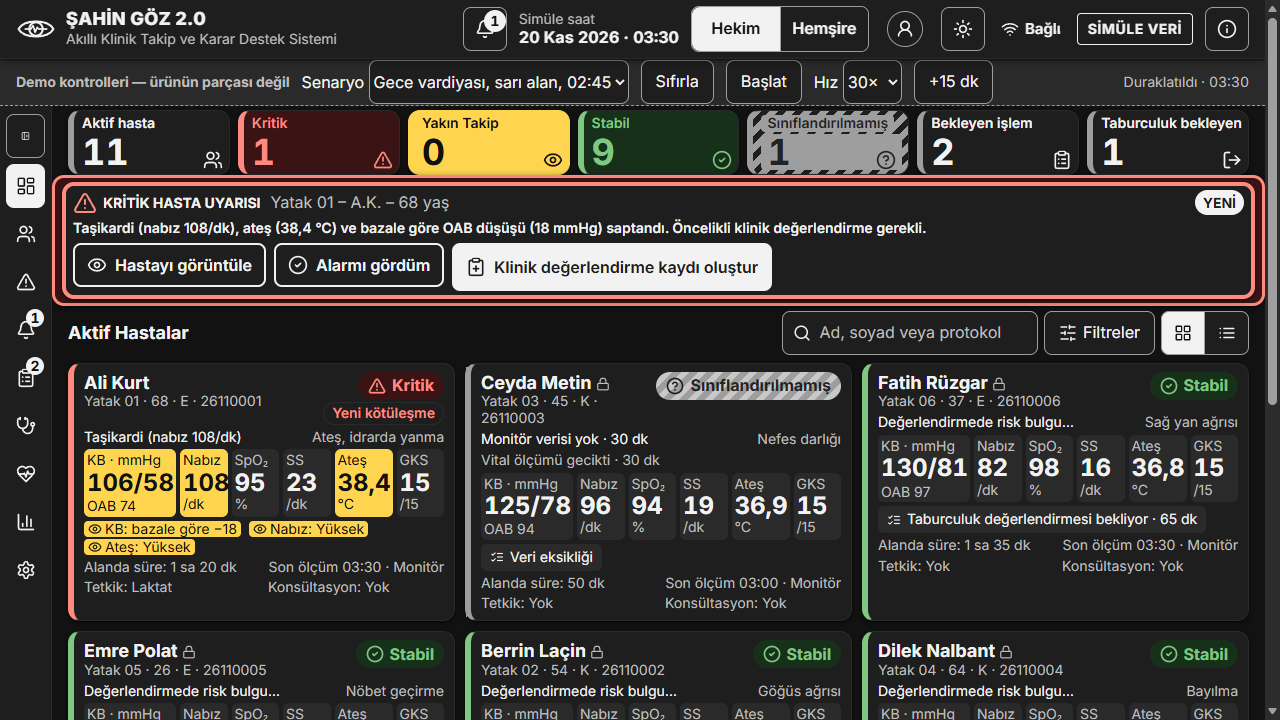
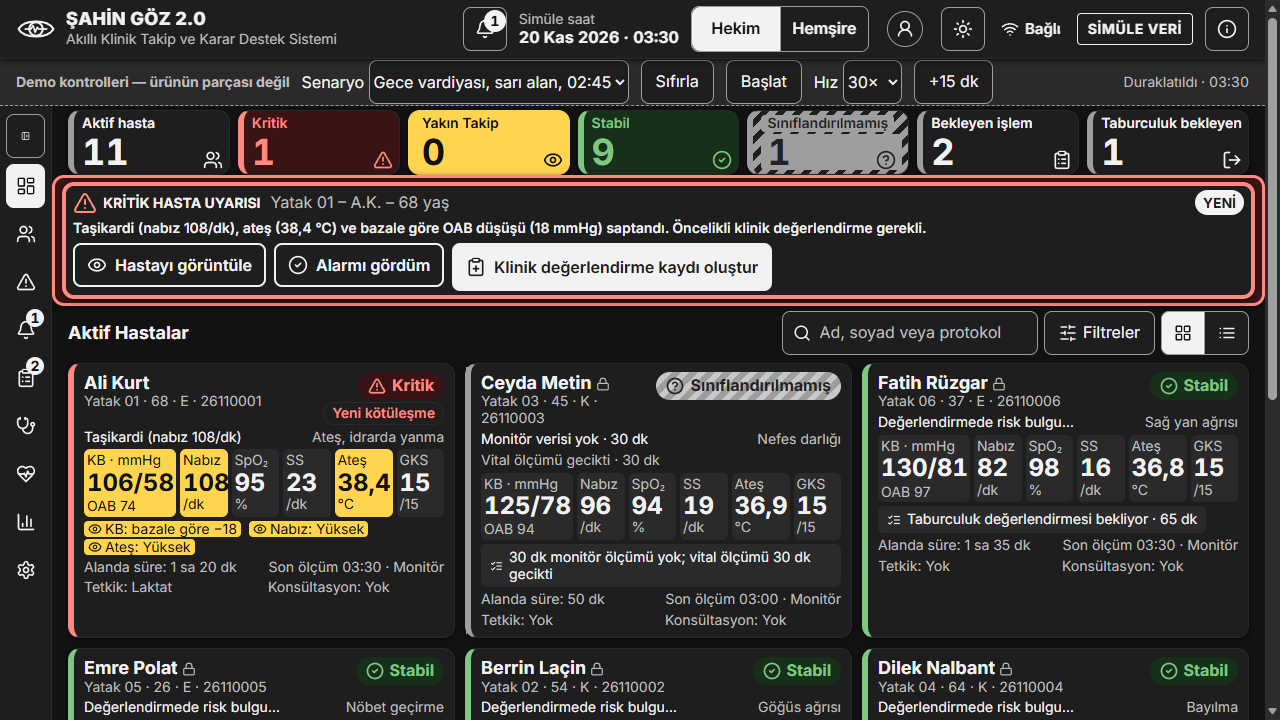
fix(gui): preserve compact table density after review

Changed region(s): [[0.0312, 0.7639, 0.9688, 1.0]]

diff --git a/frontend/src/gui/patients/PatientTable.tsx b/frontend/src/gui/patients/PatientTable.tsx
@@ -1,4 +1,4 @@
-import { Eye, Lock, TriangleAlert } from 'lucide-react';
+import { Eye, ListChecks, Lock, TriangleAlert } from 'lucide-react';
 import { StatusLabel } from '../../components/ui/StatusLabel';
 import type { Alert, CriticalAlarm, Summary } from '../../types';
 import { copy as alarmCopy } from '../alarms/copy';
@@ -30,6 +30,8 @@ export function PatientTable({ patients, activeAlarms, tasks, blockingPatientId,
           ? [`${alarmCopy.previousFindings}: ${reasons.join(' · ')}`, ...dataIssues]
           : [...new Set([...reasons, ...dataIssues])];
         const activeTasks = tasks.filter(a => a.patient_id === patient.id && a.status === 'active');
+        const gapTask = activeTasks.find(task => task.level === 'YELLOW');
+        const briefIssue = dataIssues[0] ?? (patient.risk_status.key === 'siniflandirilmamis' ? issues[0] : undefined);
         return <tr key={patient.id} data-testid={`board-row-${patient.id}`} data-status={patient.risk_status.key}
           data-locked={locked || undefined} onClick={() => onOpen(patient.id)}>
           <th scope="row"><button type="button" className="table-patient" onClick={event => { event.stopPropagation(); onOpen(patient.id); }}>
@@ -40,11 +42,13 @@ export function PatientTable({ patients, activeAlarms, tasks, blockingPatientId,
           <td className="table-risk" title={[...issues, ...activeTasks.map(alertTitle)].join(' · ')}>
             <StatusLabel status={patient.risk_status.key} sublabel={statusSublabel(patient, !!alarm)} />
             {patient.risk_status.worsened && <span className="badge-worsened">{copy.worsened}</span>}
-            {patient.risk_status.key === 'siniflandirilmamis' && issues[0] && <small className="table-issue">{issues[0]}</small>}
-            {patient.risk_status.key !== 'siniflandirilmamis' && dataIssues[0] && !activeTasks.some(task => task.level === 'YELLOW') &&
-              <small className="table-issue">{dataIssues[0]}</small>}
-            {activeTasks.map(task => <small key={task.id} className="table-issue">
-              {task.level === 'GREEN' ? alarmCopy.tasks.title('GREEN') : alertTitle(task)}
+            {alarm?.criteria_met === false && <small className="table-issue">{alarmCopy.previousFindings}</small>}
+            {gapTask ? <small className="table-issue table-task" title={alertTitle(gapTask)}>
+              <ListChecks size={14} aria-label={alarmCopy.tasks.title('YELLOW')} />
+              {briefIssue ?? alertTitle(gapTask)}
+            </small> : briefIssue && <small className="table-issue">{briefIssue}</small>}
+            {activeTasks.filter(task => task.level === 'GREEN').map(task => <small key={task.id} className="table-issue table-task">
+              <ListChecks size={14} aria-hidden="true" />{alarmCopy.tasks.title('GREEN')}
             </small>)}
           </td>
           <td>{offline ? <span className="table-gap">{copy.stale}</span> : patient.score}</td>

diff --git a/frontend/src/gui/patients/patients.css b/frontend/src/gui/patients/patients.css
@@ -437,7 +437,7 @@
 .patient-table { width: 100%; min-width: 850px; border-collapse: collapse; font-size: .875rem; line-height: 1.13; background: var(--surface); }
 .patient-table th, .patient-table td { padding: 2px 5px; text-align: start; vertical-align: middle; border-bottom: 1px solid var(--line); }
 .patient-table tbody th { padding-block: 0; }
-.patient-table thead th { height: 30px; background: var(--subtle); }
+.patient-table thead th { height: 24px; background: var(--subtle); white-space: nowrap; }
 .patient-table tbody tr { cursor: pointer; }
 .patient-table tbody tr:hover { background: var(--subtle); }
 .patient-table tbody th { border-inline-start: 5px solid var(--line-strong); }
@@ -455,6 +455,8 @@
 .table-risk .status-label { gap: .25rem; }
 .table-risk .status-pill { padding: .125rem .25rem; }
 .table-risk .badge-worsened, .table-vital > small, .table-issue { display: block; }
+.table-issue.table-task { display: flex; align-items: center; gap: .25rem; }
+.table-task svg { flex: none; }
 .table-vital { font-variant-numeric: tabular-nums; }
 .table-value { font-size: 1rem; font-weight: 680; white-space: nowrap; }
 .table-vital[data-flag='kritik'] { background: var(--kritik-bg); color: var(--kritik); }
@@ -467,7 +469,6 @@
 .card-flags span { display: flex; align-items: center; gap: 3px; }
 .card-flags .flag-kritik { color: var(--kritik); }
 .card-flags .flag-yakin_takip { padding-inline: .25rem; color: var(--status-on-yellow); background: var(--yakin-takip); border-radius: .25rem; }
-.patient-table thead th { height: 24px; }
 .table-gap small { display: block; }
 .table-vital { min-width: 60px; }
 .table-vital .table-gap { white-space: nowrap; }

diff --git a/docs/STATUS.md b/docs/STATUS.md
@@ -83,5 +83,8 @@
 - A separate Edge run dropped three consecutive state requests: the phone showed the last-success timestamp, all 54 visible measured values lost their normal style, mutations were disabled, and the connection recovered when requests resumed.
 - P2 started after P1 was published at 23:46 Istanbul time, before the 04:30 cutoff. Settings enables English only when both catalogs have matching nonempty messages and placeholder names. Turkish remains the default; the chosen language survives reload.
 - The shift summary counts actual audit records and labels them as simulation activity, not clinical performance. In two final replays Edge showed one seen record, one recorded critical evaluation, and one filtered lab. Both runs produced the same 10 audit entries except for wall-clock timestamps.
-- Final browser checks also covered a 48 px primary action and locked secondary alarm at 04:00, and English patient detail at 390×844 with localized staff/lab names and the disabled physician action. The final catalog check covered 568 keys and placeholder sets per language.
+- Final browser checks also covered a 48 px primary action and locked secondary alarm at 04:00, and English patient detail at 390×844 with localized staff/lab names and the disabled physician action.
 - Published on [`feat/gui-2`](https://github.com/OzgenOzan/pulse-hackers_emathon_26/tree/feat/gui-2) in [PR #3](https://github.com/OzgenOzan/pulse-hackers_emathon_26/pull/3); not merged.
+- Review fixes distinguish a latched alarm's earlier findings from its current score, keep a prior evaluation out of a newly active alarm’s status, and show the seen/decision timeline and note in patient detail. A departed patient remains visible in the history with its detail action disabled and explained. The clinical engine and server-side lock are unchanged.
+- Stale trend endpoints show the measurement time and the chart breaks at missing samples. Monitor-only gaps are distinct from overdue vitals, tablet navigation no longer covers the detail sheet, and one assertive critical alert region works on every route.
+- Failed startup resources reload independently. A timed-out mutation keeps actions disabled until reconciliation. Edge held a real successful seen response: the connection showed offline, then accepted the saved seen record after recovery without sending a duplicate POST. The palette regression tests and final 571-key locale check passed.

diff --git a/docs/demo-script.md b/docs/demo-script.md
@@ -25,6 +25,6 @@ Run `make demo`, use a 1280×720 or larger desktop viewport, and leave the clock
 | 32–49 | **Hekim → +15 dk**. The Yatak 01 alarm cites tachycardia (108/min), fever (38.4 °C), and an OAB drop of 18 mmHg. Try another bed to show the lock. Press **Alarmı gördüm** and verify the alarm and lock both remain. |
 | 49–60 | **Klinik değerlendirme kaydı oluştur → Kırmızı alana al**. Open **Klinik Alarmlar** to show the seen and clinical evaluation records. |
 
-**Optional limitation rehearsal:** From the hero end, step to 04:00 and choose **Klinik değerlendirme kaydı oluştur → Yeniden değerlendiriyorum** for Yatak 02. Step to 04:15: Yatak 08 has OAB 64 from a chronically low baseline and still gets a critical alarm. Choose **Bu hasta için beklenen → Kronik bazal değer** and show the recorded reason. This is a scripted limitation, not clinical advice.
+**Optional limitation rehearsal:** From the hero end at 03:30, press **+15 dk** twice. At 04:00 choose **Klinik değerlendirme kaydı oluştur → Yeniden değerlendiriyorum** for Yatak 02. Step once more: at 04:15 Yatak 08 has OAB 64 from a chronically low baseline and still gets a critical alarm. Choose **Bu hasta için beklenen → Kronik bazal değer** and show the recorded reason. This is a scripted limitation, not clinical advice.
 
 **Suggested pilot endpoints, not outcomes:** time from ready results to discharge decisions, stretcher occupancy, cardiac arrests, in-ED mortality, and white-code calls. A real pilot needs local integration, governance, clinical sign-off, and a comparison design. Do not claim any of these have improved.
